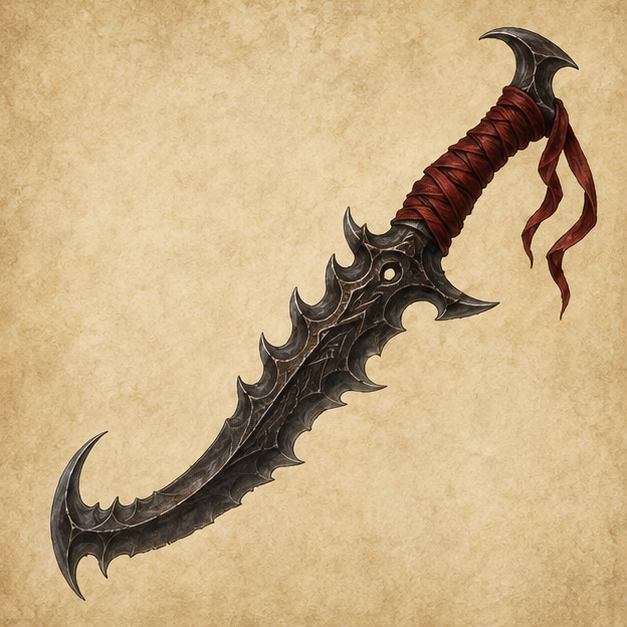
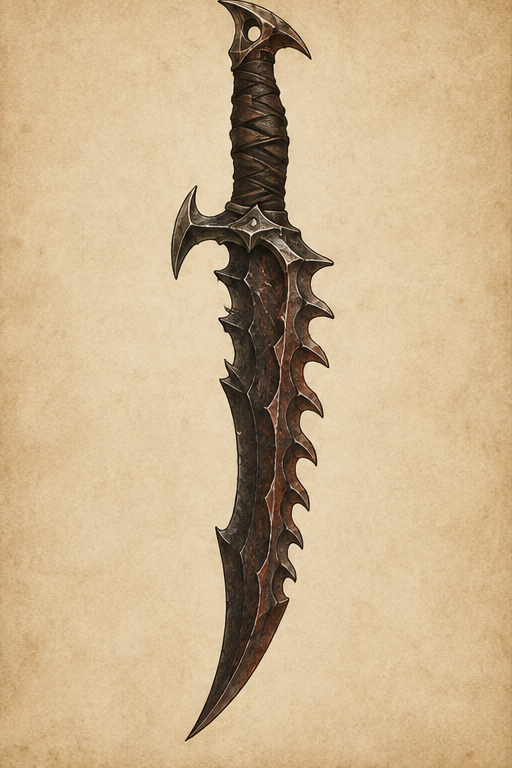
feat: individualiza armas leves nomeadas

diff --git a/src/weaponVisuals.test.ts b/src/weaponVisuals.test.ts
@@ -128,6 +128,10 @@ describe("weapon visual fallback", () => {
     expect(getWeaponVisualKey({ name: "Flagelo dos Mortos-Vivos", weaponGroup: "Flail" })).toBe("undead-scourge");
     expect(getWeaponVisualKey({ name: "Macuahuitl", weaponGroup: "Club" })).toBe("macuahuitl");
     expect(getWeaponVisualKey({ name: "Mangual", weaponGroup: "Flail" })).toBe("flail-standard");
+    expect(getWeaponVisualKey({ name: "Adaga", weaponGroup: "Knife" })).toBe("dagger-standard");
+    expect(getWeaponVisualKey({ name: "Foice do Leão", weaponGroup: "Knife" })).toBe("lion-scythe");
+    expect(getWeaponVisualKey({ name: "Rasgador de Kith", weaponGroup: "Knife" })).toBe("kithrender");
+    expect(getWeaponVisualKey({ name: "Lâmina Golpe-Garra", weaponGroup: "Gauntlet" })).toBe("talonstrike-blade");
     expect(getWeaponVisualKey({ name: "Enxó", weaponGroup: "Axe" })).toBe("adze");
     expect(getWeaponVisualKey({ name: "Cruuk", weaponGroup: "Axe" })).toBe("cruuk");
     expect(getWeaponVisualKey({ name: "Enxó de Mão", weaponGroup: "Axe" })).toBe("hand-adze");

diff --git a/src/weaponVisuals.ts b/src/weaponVisuals.ts
@@ -108,6 +108,9 @@ export function getWeaponVisualKey(data: WeaponVisualData = {}): string {
   if (/fauchard/.test(identity)) return "fauchard";
   if (/lan[cç]a de guerra|war lance/.test(identity)) return "war-lance";
   if (/rasgador de kith|kithrender/.test(identity)) return "kithrender";
+  if (group && /^adaga$|^dagger$/.test(name.trim())) return "dagger-standard";
+  if (/foice do le[aã]o|lion scythe/.test(identity)) return "lion-scythe";
+  if (/l[aâ]mina golpe-garra|talonstrike blade/.test(identity)) return "talonstrike-blade";
   if (/espada larga|broadsword/.test(identity)) return "broadsword";
   if (/bracamante|falchion/.test(identity)) return "falchion";
   if (/montante|greatsword/.test(identity)) return "greatsword";
